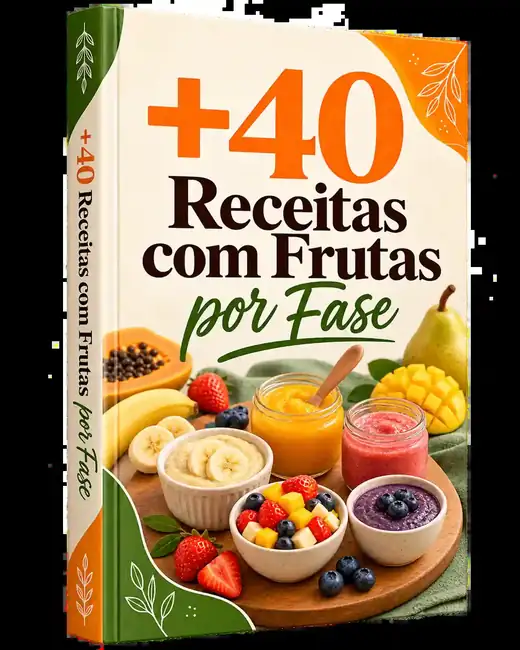
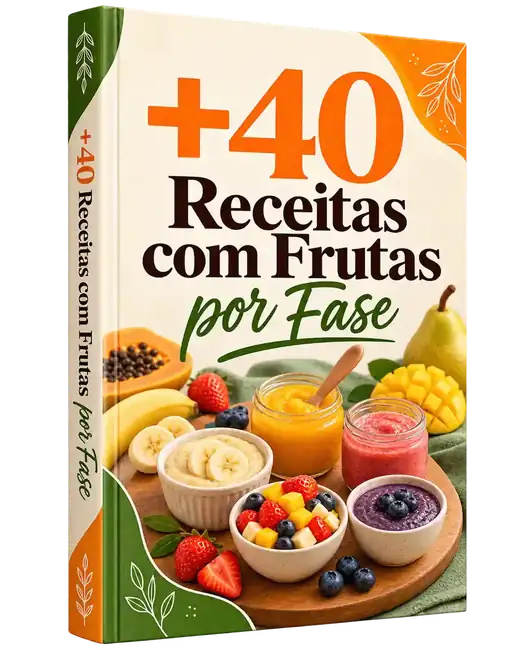
Bebe Comilao: imagens com transparencia de volta e topo igual ao Lanchinhos

Changed region(s): [[0.0, 0.0, 1.0, 1.0]]

diff --git a/imagens/bebe-comilao/previa.html b/imagens/bebe-comilao/previa.html
@@ -20,11 +20,7 @@
 @keyframes caiPao{0%{transform:translate3d(0,0,0) rotate(0deg);opacity:0}8%{opacity:.5}85%{opacity:.5}100%{transform:translate3d(var(--v),1150px,0) rotate(var(--r));opacity:0}}
 @media (prefers-reduced-motion:reduce){.chuva-pao{display:none}.rv{opacity:1!important;transform:none!important}}
 .hero-img{border:0!important;box-shadow:none!important;border-radius:22px!important}
-.hero-img{animation:none!important;max-width:356px;margin:0 auto 22px}
-.hero .btn{margin-top:0}
-.hero-preco{font-size:14px;font-weight:700;color:var(--marrom-light);margin:10px 0 22px}
-.hero-preco s{opacity:.7}.hero-preco b{color:var(--marrom);font-weight:800}
-.hero-pills{margin-bottom:22px}
+.hero-img{animation:none!important}
 .dor-lista{list-style:none;margin-top:var(--s3);display:grid;gap:10px;text-align:left}
 .dor-lista li{background:rgba(255,255,255,.08);border:1px solid rgba(255,255,255,.14);border-radius:14px;padding:12px 14px 12px 40px;position:relative;color:rgba(255,255,255,.86);font-size:15px;line-height:1.45}
 .dor-lista li::before{content:"✓";position:absolute;left:14px;top:11px;color:var(--laranja);font-weight:900}
@@ -50,17 +46,16 @@
 <section class="hero">
   <div class="chuva-pao" aria-hidden="true"><span style="--x:6%;--t:40px;--d:13s;--a:-2s;--v:30px;--r:200deg">🍎</span><span style="--x:22%;--t:34px;--d:16s;--a:-9s;--v:-20px;--r:-160deg">🥕</span><span style="--x:38%;--t:36px;--d:14s;--a:-5s;--v:25px;--r:240deg">🍎</span><span style="--x:55%;--t:32px;--d:17s;--a:-12s;--v:-15px;--r:-200deg">🥕</span><span style="--x:70%;--t:42px;--d:12s;--a:-7s;--v:20px;--r:180deg">🍎</span><span style="--x:86%;--t:36px;--d:15s;--a:-1s;--v:-25px;--r:-220deg">🥕</span><span style="--x:14%;--t:30px;--d:18s;--a:-14s;--v:15px;--r:160deg">🥕</span><span style="--x:78%;--t:32px;--d:19s;--a:-4s;--v:-10px;--r:210deg">🍎</span></div>
   <h1>O único cardápio que você vai precisar para a <em>introdução alimentar do seu bebê</em></h1>
-  <img class="hero-img" src="https://zitfuuullg008-debug.github.io/harness-ofertas/imagens/bebe-comilao/Lezfbx3237144.webp" alt="Cardápio Bebê Comilão com papinhas, purês e lanchinhos para bebê" loading="eager" decoding="async" fetchpriority="high" width="627" height="627">
-  <a href="#plano-completo" class="btn btn-laranja btn-shimmer">QUERO MEU CARDÁPIO</a>
-  <p class="hero-preco">Plano completo de <s>R$149</s> por <b>R$27,90</b> · acesso imediato</p>
   <div class="hero-pills">
     <div class="hero-pill"><i class="emo">⏰</i><span>Prontas em até 15 minutos</span></div>
     <div class="hero-pill"><i class="emo">👶</i><span>Do 6º mês aos 2 anos</span></div>
     <div class="hero-pill"><i class="emo">🛒</i><span>Lista de compras pronta</span></div>
     <div class="hero-pill"><i class="emo">🥄</i><span>Textura certa pra cada fase</span></div>
   </div>
+  <img class="hero-img" src="https://zitfuuullg008-debug.github.io/harness-ofertas/imagens/bebe-comilao/Lezfbx3237144.webp" alt="Cardápio Bebê Comilão com papinhas, purês e lanchinhos para bebê" loading="eager" decoding="async" fetchpriority="high" width="627" height="627">
   <p class="hero-sub"><strong>+160 receitas</strong> divididas em cardápios por idade, <strong>dos 6 meses aos 2 anos</strong>, com lista de compras automática e prontas em até 15 minutos.</p>
   <div class="prova-mini"><img src="https://zitfuuullg008-debug.github.io/harness-ofertas/imagens/bebe-comilao/awWDAr1427858.webp" alt="Mamães que já usam o cardápio" width="190" height="71" loading="lazy" decoding="async"><p><b>+<span data-count="17800">17.800</span> mamães</b> já garantiram o acesso ao Cardápio Bebê Comilão.</p></div>
+  <a href="#plano-completo" class="btn">QUERO MEU CARDÁPIO</a>
   <ul class="trust"><li>🔒 Compra segura</li><li>⚡ Acesso imediato</li><li>🛡 30 dias de garantia</li></ul>
 </section>
 
